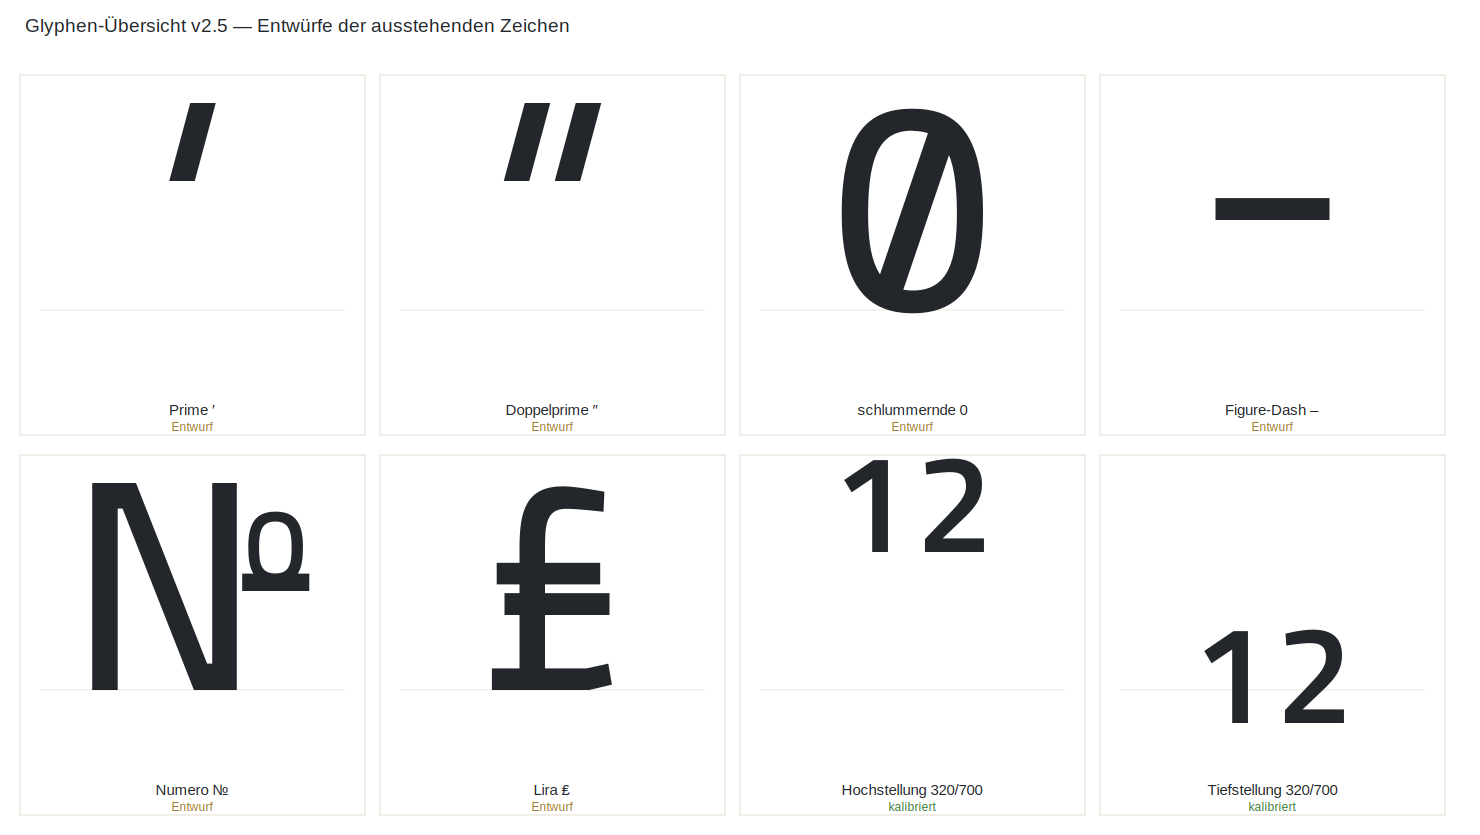
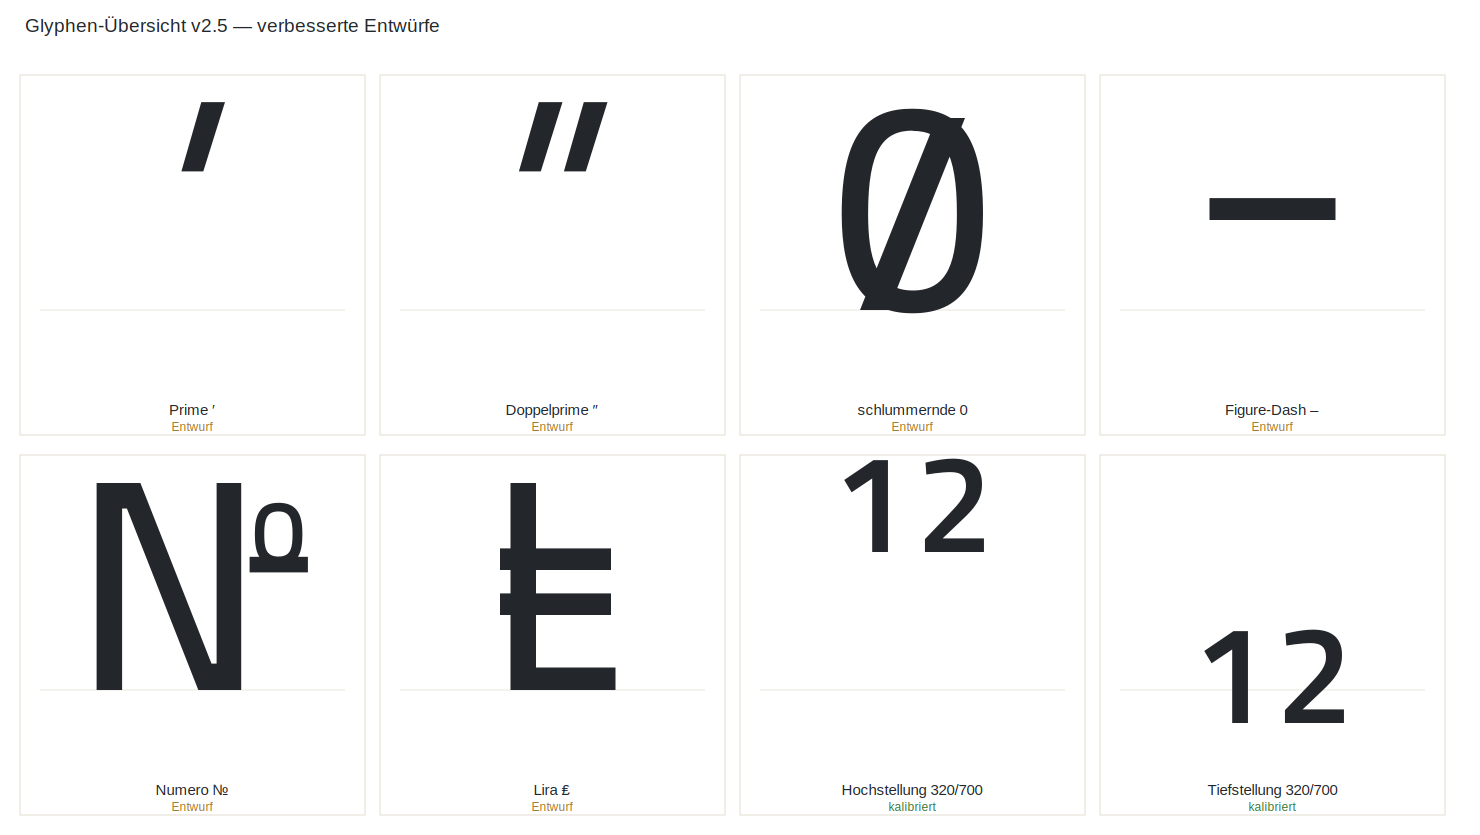
v2.5-Entwürfe verfeinert: Ligatur A + Glyphenübersicht
- Ligatur A: f-Bogen verlängert (obere Bogenpunkte nach rechts), ff durch
  durchgehenden Querbalken verschränkt; Referenzzeile ohne Ligatur.
- Übersicht: Prime/Doppelprime aus geschertem Anführungsstrich, schlummernde
  0 mit überstehendem Schrägstrich, № kompakter, ₤ aus L mit zwei Querbalken.

diff --git a/werkzeug.html b/werkzeug.html
@@ -136,9 +136,9 @@
     <h2>Referenz &amp; Entwürfe</h2>
     <div class="hint">Hoch-/Tiefstellung nach den Referenzproportionen der Elternschrift <b>Titillium</b> (OFL): klein (~315), Oberkante zur Oberlänge, schwerer gezeichnet. Die Hebel oben stehen jetzt auf diesen Werten.</div>
     <p style="margin:10px 0 0"><img src="assets/proofs/feat-supsub.png" alt="Schaubild Hoch-/Tiefstellung mit Referenzbändern" style="width:100%;height:auto;border:1px solid rgba(20,24,28,.10);border-radius:10px;display:block"></p>
-    <div class="hint" style="margin-top:22px"><b>Ligatur-Varianten</b> (fi · fl · ffi · ffl) — gezeichnete Entwürfe als f + dotless-i / l. Vier Richtungen zur Auswahl: ohne Ligatur (Kollision), kleiner / grosser Überhang, oder nur Punkt getilgt. Sag, welche Richtung — daraus baue ich die echten Ligatur-Glyphen.</div>
+    <div class="hint" style="margin-top:22px"><b>Ligatur A — verfeinert</b> (fi · fl · ffi · ffl): der <b>f-Bogen</b> reicht länger über das dotless-i, das <b>ff</b> ist durch einen <b>durchgehenden Querbalken</b> verschränkt. Oben die Referenz ohne Ligatur. (Mikro-Kerbe am ff-Stoss wird beim echten Zeichnen geglättet.)</div>
     <p style="margin:10px 0 0"><img src="assets/proofs/v25-ligvariants.png" alt="Ligatur-Varianten: ohne Ligatur, Überhang klein, Überhang gross, nur Punkt getilgt" style="width:100%;height:auto;border:1px solid rgba(20,24,28,.10);border-radius:10px;display:block"></p>
-    <div class="hint" style="margin-top:22px"><b>Glyphen-Übersicht v2.5</b> — Entwürfe der noch ausstehenden Zeichen: Prime ′, Doppelprime ″, schlummernde 0, Figure-Dash, Numero №, Lira ₤ sowie Hoch-/Tiefstellung (320/700). „Entwurf" = konstruiert, noch zu verfeinern; „kalibriert" = Werte stehen.</div>
+    <div class="hint" style="margin-top:22px"><b>Glyphen-Übersicht v2.5 (verbessert)</b> — Entwürfe der ausstehenden Zeichen: Prime ′ + Doppelprime ″ (aus der Anführungsform geschert), schlummernde 0 (überstehender Schrägstrich), Figure-Dash, Numero №, Lira ₤ (L mit zwei Querbalken) sowie Hoch-/Tiefstellung (320/700). „Entwurf" = konstruiert; „kalibriert" = Werte stehen.</div>
     <p style="margin:10px 0 0"><img src="assets/proofs/v25-overview.png" alt="Glyphen-Übersicht v2.5: Prime, Doppelprime, schlummernde 0, Figure-Dash, Numero, Lira, Hoch-/Tiefstellung" style="width:100%;height:auto;border:1px solid rgba(20,24,28,.10);border-radius:10px;display:block"></p>
   </section>
 

diff --git a/tools/goetheanum-fontfix/proof_v25.py b/tools/goetheanum-fontfix/proof_v25.py
@@ -1,6 +1,7 @@
 #!/usr/bin/env python3
-# Two reference sheets (coordinates mapped to SVG space in Python; no transforms):
-#  A) Ligatur-Varianten   B) v2.5 Glyphenuebersicht (konstruierte Entwuerfe)
+# Reference sheets (coords mapped to SVG in Python; no transforms):
+#  A) Ligatur A (verfeinert): f-Bogen verlängert + ff-Querbalken-Verschränkung.
+#  B) v2.5 Glyphenuebersicht: verbesserte konstruierte Entwuerfe.
 import os, sys, glob
 HERE = os.path.dirname(os.path.abspath(__file__)); sys.path.insert(0, HERE)
 from fontfix import grec, blend, sig
@@ -19,18 +20,24 @@ def interp(uni, w):
     return blend(rA, aA, rB, aB, (w - WK) / (WL - WK))
 
 def recmap(rec, s, dx, dy):
-    return [(c, tuple((x * s + dx, y * s + dy) for x, y in p)) for c, p in rec]
+    return [(c, tuple((x*s + dx, y*s + dy) for x, y in p)) for c, p in rec]
+
+def shear(rec, k, y0):
+    return [(c, tuple((x + k*(y - y0), y) for x, y in p)) for c, p in rec]
+
+def ext_f(rec, bow=88):
+    """Lengthen the f's top bow by pushing the upper-right arch points right."""
+    return [(c, tuple((x + bow if (x > 175 and y > 640) else x, y) for x, y in p)) for c, p in rec]
 
 def emit(contours, scale, gx, base):
-    """contours: list of ('g', rec) or ('p', [pts]); map font coords -> svg (y flipped)."""
     d = []
     for kind, data in contours:
         if kind == "p":
-            q = [(gx + scale * x, base - scale * y) for x, y in data]
+            q = [(gx + scale*x, base - scale*y) for x, y in data]
             d.append("M" + " L".join("%.1f %.1f" % t for t in q) + "Z")
         else:
             for c, p in data:
-                q = [(gx + scale * x, base - scale * y) for x, y in p]
+                q = [(gx + scale*x, base - scale*y) for x, y in p]
                 if c == "moveTo": d.append("M%.1f %.1f" % q[0])
                 elif c == "lineTo": d.append("L%.1f %.1f" % q[0])
                 elif c == "curveTo": d.append("C%.1f %.1f %.1f %.1f %.1f %.1f" % (q[0]+q[1]+q[2]))
@@ -46,66 +53,76 @@ def frame(w, h):
     return ['<svg xmlns="http://www.w3.org/2000/svg" width="%d" height="%d" viewBox="0 0 %d %d">' % (int(w*SCALE), int(h*SCALE), w, h),
             '<rect width="%d" height="%d" fill="#fff"/>' % (w, h)]
 
-def path(d, fill=INK):
-    return '<path d="%s" fill="%s"/>' % (d, fill)
+def path(d, fill=INK): return '<path d="%s" fill="%s"/>' % (d, fill)
 
-# ===================== IMAGE A: ligature variants =====================
-def lig_contours(letters, ovl, dotless):
-    cont = []; px = 0.0; prev_f = False
-    for ch in letters:
-        uni = 0x131 if (ch == "i" and dotless) else ord(ch)
-        rec, adv = grec(fK, uni)
-        if prev_f and ch in "il" and ovl: px -= ovl
-        cont.append(("g", recmap(rec, 1.0, px, 0)))
-        px += adv; prev_f = (ch == "f")
-    return cont, px
+f, af = grec(fK, 0x66); gi, ai = grec(fK, 0x131); gl, al = grec(fK, 0x6C)
+gI, aI = grec(fK, 0x69)
+CB0, CB1 = 500, 540
+BOW, OVL = 88, 90
 
-VARIANTS = [
-    ("ohne Ligatur — f + i mit Punkt, Normalabstand", None, False),
-    ("Entwurf A — dotless-i, Überhang klein (95)", 95, True),
-    ("Entwurf B — dotless-i, Überhang gross (170)", 170, True),
-    ("Entwurf C — dotless-i, nur Punkt getilgt (35)", 35, True),
-]
-WA, rowh, sclA = 2700, 500, 0.5
-HA = 120 + len(VARIANTS) * rowh
+def lig(word, ligate):
+    cont = []; px = 0.0; fcount = 0; prev_f = False
+    bridges = []
+    seq = list(word)
+    for idx, ch in enumerate(seq):
+        if ch == "f":
+            rec = ext_f(f, BOW) if ligate else f
+            cont.append(("g", recmap(rec, 1, px, 0)))
+            if ligate and prev_f:                      # crossbar bridge between two f's
+                bridges.append(("p", [(px-af+250, CB0), (px+150, CB0), (px+150, CB1), (px-af+250, CB1)]))
+            px += af; prev_f = True
+        else:
+            rec = gi if (ch == "i" and ligate) else (grec(fK, ord(ch))[0])
+            adv = ai if (ch == "i" and ligate) else grec(fK, ord(ch))[1]
+            if ligate and prev_f and ch in "il": px -= OVL
+            cont.append(("g", recmap(rec, 1, px, 0))); px += adv; prev_f = False
+    return cont + bridges, px
+
+# ===================== IMAGE A =====================
+WA, rowh = 2400, 540
+HA = 120 + 2 * rowh
 s = frame(WA, HA)
-s.append(txt(60, 64, "Ligatur-Varianten — wähle eine Richtung (fi · fl · ffi · ffl)", 38, INK))
-for i, (label, ovl, dl) in enumerate(VARIANTS):
-    base = 200 + i * rowh + 250
-    s.append(txt(60, base - 270, label, 28))
+s.append(txt(60, 64, "Ligatur A — verfeinert: f-Bogen länger + ff-Querbalken verschränkt", 38, INK))
+for i, (label, lg) in enumerate([("ohne Ligatur (Referenz)", False), ("Entwurf A verfeinert", True)]):
+    base = 200 + i*rowh + 250
+    s.append(txt(60, base - 280, label, 28))
     s.append('<line x1="60" y1="%.0f" x2="%d" y2="%.0f" stroke="%s" stroke-width="2"/>' % (base, WA-60, base, GUIDE))
     gx = 640
     for w in ("fi", "fl", "ffi", "ffl"):
-        cont, width = lig_contours(w, ovl, dl)
-        s.append(path(emit(cont, sclA, gx, base)))
-        gx += width * sclA + 150
+        cont, width = lig(w, lg); s.append(path(emit(cont, 0.5, gx, base))); gx += width*0.5 + 150
 s.append("</svg>")
 cairosvg.svg2png(bytestring="\n".join(s).encode(), write_to="/tmp/v25_ligvariants.png", output_width=int(WA*SCALE))
 
-# ===================== IMAGE B: v2.5 glyph overview =====================
+# ===================== IMAGE B =====================
 HYW = 73
-def c_prime(x0=0): return [("p", [(x0,430),(x0+85,430),(x0+155,690),(x0+70,690)])]
-def c_doubleprime(): return c_prime(0) + c_prime(170)
+def c_prime(dx=0):
+    q, _ = grec(fK, 0x27)                              # quotesingle -> sheared = prime
+    return [("g", shear(recmap(q, 1, dx, 0), 0.30, 462))]
+def c_doubleprime():
+    return c_prime(0) + c_prime(150)
 def c_slashzero():
     rec, adv = grec(fK, 0x30)
-    return [("g", rec), ("p", [(150,55),(245,55),(430,600),(335,600)])], adv
-def c_figuredash(): return [("p", [(90,300),(470,300),(470,300+HYW),(90,300+HYW)])], 560
+    return [("g", rec), ("p", [(105, 0), (200, 0), (455, 640), (360, 640)])], adv  # overshooting slash
+def c_figuredash(): return [("p", [(70, 300), (490, 300), (490, 300+HYW), (70, 300+HYW)])], 560
 def c_numero():
     n, adv = grec(fK, 0x4E); o, _ = grec(fK, 0x6F)
-    cont = [("g", n), ("g", recmap(o, 0.46, 575, 360)),
-            ("p", [(575,330),(575+0.46*486,330),(575+0.46*486,330+58),(575,330+58)])]
-    return cont, 575 + 0.46*486 + 20
+    ow = 0.40
+    cont = [("g", n), ("g", recmap(o, ow, 585, 420)),
+            ("p", [(585, 392), (585+ow*486, 392), (585+ow*486, 392+52), (585, 392+52)])]
+    return cont, 585 + ow*486 + 10
 def c_lira():
-    rec, adv = grec(fK, 0xA3)
-    return [("g", rec), ("p", [(120,250),(470,250),(470,250+HYW),(120,250+HYW)])], adv
+    rec, adv = grec(fK, 0x4C)                          # L + zwei Querbalken = ₤
+    bars = [("p", [(40, 250), (410, 250), (410, 322), (40, 322)]),
+            ("p", [(40, 400), (410, 400), (410, 472), (40, 472)])]
+    return [("g", rec)] + bars, 430
 def c_fig(off, weight=700, h=320):
     s2 = h/690.0; r1, a1 = interp(ord("1"), weight); r2, a2 = interp(ord("2"), weight)
     return [("g", recmap(r1, s2, 0, off)), ("g", recmap(r2, s2, a1*s2+20, off))], (a1+a2)*s2+20
 
 def cells():
     out = []
-    out.append(("Prime  ′", c_prime(), 155, "Entwurf"))
-    out.append(("Doppelprime  ″", c_doubleprime(), 325, "Entwurf"))
+    out.append(("Prime  ′", c_prime(), 200, "Entwurf"))
+    out.append(("Doppelprime  ″", c_doubleprime(), 350, "Entwurf"))
     c, w = c_slashzero();  out.append(("schlummernde 0", c, w, "Entwurf"))
     c, w = c_figuredash(); out.append(("Figure-Dash  ‒", c, w, "Entwurf"))
     c, w = c_numero();     out.append(("Numero  №", c, w, "Entwurf"))
@@ -115,17 +132,17 @@ def cells():
     return out
 
 cl = cells(); COLS = 4; CW, CH = 720, 760
-WB = COLS * CW + 80; ROWSn = (len(cl) + COLS - 1) // COLS; HB = 150 + ROWSn * CH
+WB = COLS*CW + 80; ROWSn = (len(cl) + COLS - 1)//COLS; HB = 150 + ROWSn*CH
 s = frame(WB, HB)
-s.append(txt(50, 64, "Glyphen-Übersicht v2.5 — Entwürfe der ausstehenden Zeichen", 38, INK))
+s.append(txt(50, 64, "Glyphen-Übersicht v2.5 — verbesserte Entwürfe", 38, INK))
 for idx, (label, cont, w, status) in enumerate(cl):
     r, c = divmod(idx, COLS); cx = 40 + c*CW; cy = 150 + r*CH; base = cy + 470
     s.append('<rect x="%d" y="%d" width="%d" height="%d" fill="none" stroke="%s" stroke-width="2"/>' % (cx, cy, CW-30, CH-40, GUIDE))
     s.append('<line x1="%d" y1="%.0f" x2="%d" y2="%.0f" stroke="%s" stroke-width="1.5"/>' % (cx+40, base, cx+CW-70, base, GUIDE))
-    sc = min(0.6, (CW-180) / max(w, 1)); gx = cx + (CW-30 - w*sc) / 2
+    sc = min(0.6, (CW-180)/max(w, 1)); gx = cx + (CW-30 - w*sc)/2
     s.append(path(emit(cont, sc, gx, base)))
     s.append(txt(cx + (CW-30)/2, cy + CH - 80, label, 30, INK, "middle"))
     s.append(txt(cx + (CW-30)/2, cy + CH - 48, status, 24, GOLD if status != "kalibriert" else GREEN, "middle"))
 s.append("</svg>")
 cairosvg.svg2png(bytestring="\n".join(s).encode(), write_to="/tmp/v25_overview.png", output_width=int(WB*SCALE))
-print("wrote /tmp/v25_ligvariants.png and /tmp/v25_overview.png")
+print("wrote both")